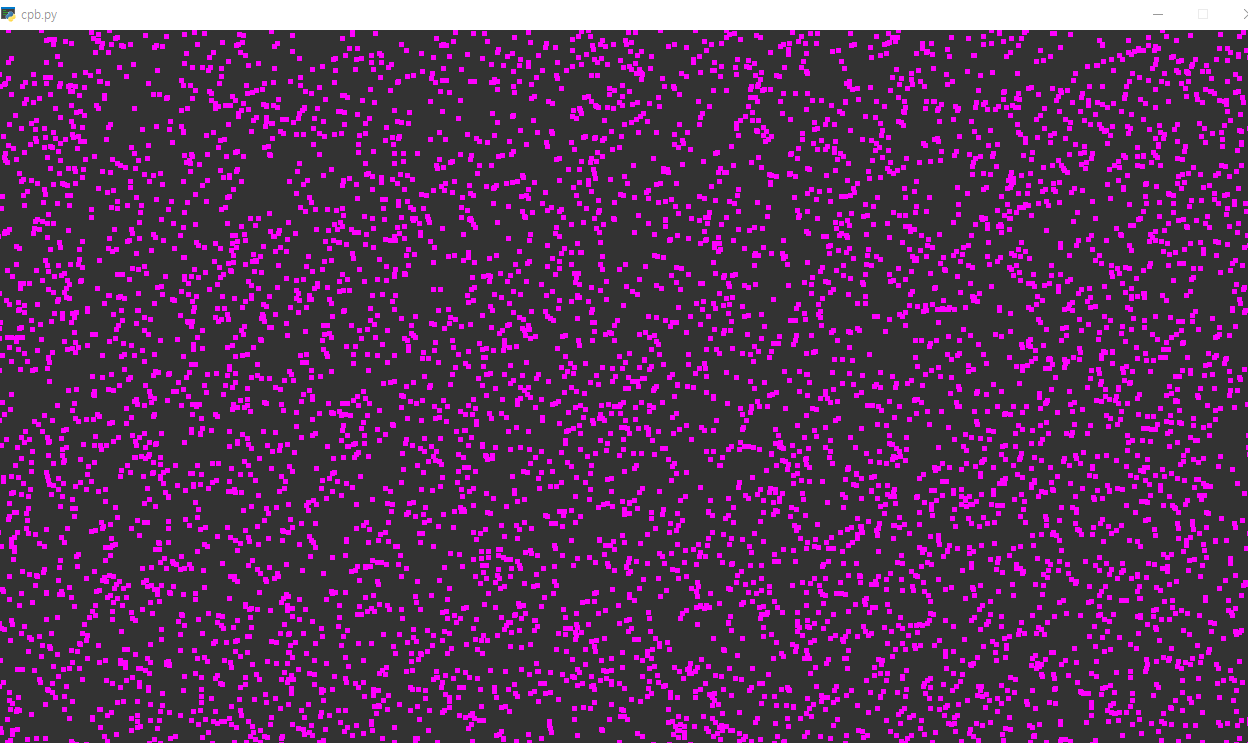
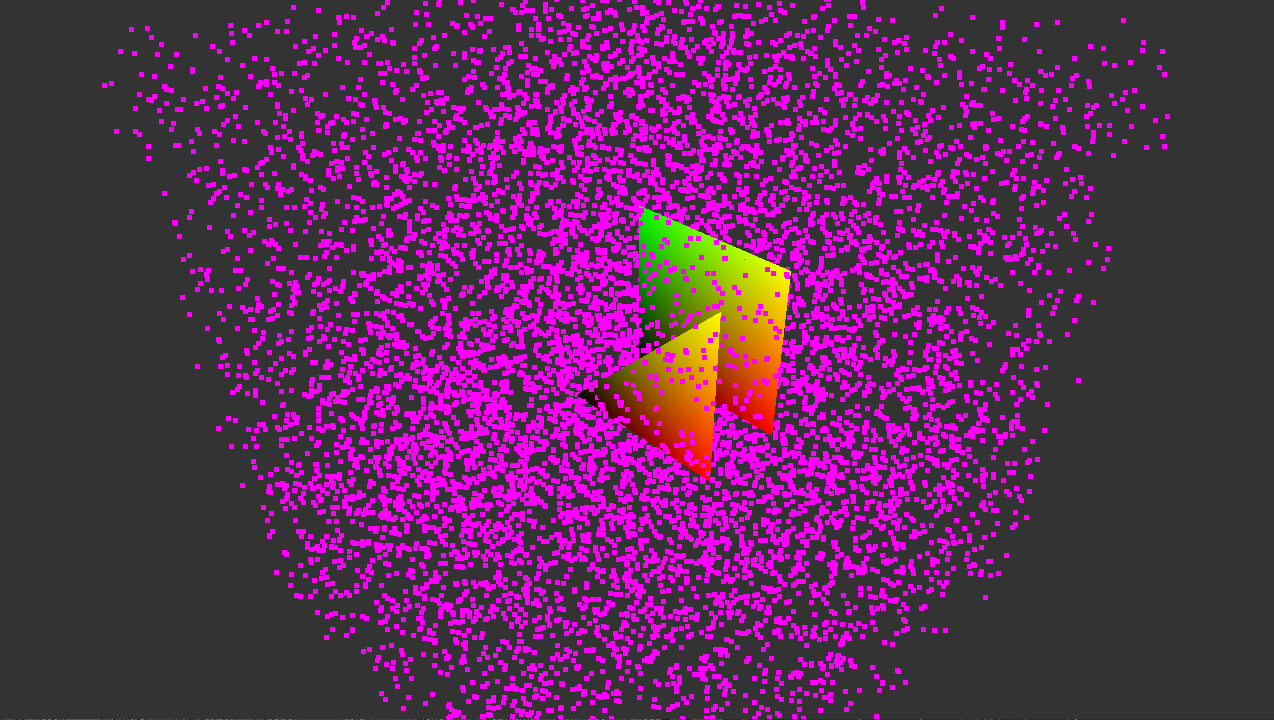
Indexed_VAO
and depth test.
draw rect.

diff --git a/cpb.py b/cpb.py
@@ -51,7 +51,6 @@ if platform.system() == "Linux":
         def glGetProgramResourceIndex(program,target,name):
             name = bytes(name,encoding='utf-8')
             return _gl.glGetProgramResourceIndex(program,target,name)
-        
         #not supported in ES.
         # glShaderStorageBlockBinding
         
@@ -285,8 +284,34 @@ class VAO:
         # print(self.count,'count',size,ssbo.size)
     def draw(self):
         glBindVertexArray(self.vao)
+        glDrawArrays(GL_TRIANGLES, 0, self.count)
+    def draw_point(self):
+        glBindVertexArray(self.vao)
         glDrawArrays(GL_POINTS, 0, self.count)
-        # glDrawArrays(GL_TRIANGLES, 0, 6)
+
+class VAOIndexed:
+    "is for draw object. requires shader used first."
+    def __init__(self, ssbo, ssbo_index, size=3,stride=0):
+        self.vao = glGenVertexArrays(1)
+        glBindVertexArray(self.vao)
+
+        glBindBuffer(GL_ARRAY_BUFFER, ssbo.ID)
+        glBindBuffer(GL_ELEMENT_ARRAY_BUFFER, ssbo_index.ID)
+        
+        glEnableVertexAttribArray(0)
+        glVertexAttribPointer(0, size, GL_FLOAT, GL_FALSE, stride, None)#index size type normalize stride offsetptr
+        # glEnableVertexAttribArray(1)
+        # glVertexAttribPointer(1, 2, GL_FLOAT, GL_FALSE, 5 * vertices.itemsize, ctypes.c_void_p(3 * vertices.itemsize))
+        #stride = 5 * vertices.itemsize
+        
+        self.count = ssbo_index.size
+        self.ma = ssbo_index
+    def draw(self):
+        glBindVertexArray(self.vao)
+        glDrawElements(GL_TRIANGLES, self.count, GL_UNSIGNED_INT,None)
+    def draw_point(self):
+        glBindVertexArray(self.vao)
+        glDrawElements(GL_POINTS, self.count, GL_UNSIGNED_INT,None)
 
 
 
@@ -354,6 +379,44 @@ void main(void){
 }
 """
 
+
+vert_tex = """
+#version 310 es
+precision highp float;
+
+uniform mat4 ProjectionView;
+
+layout(location = 0) in vec3 position;
+
+out vec2 uv_out;
+
+void main() {
+    gl_Position = ProjectionView * vec4(position, 1.0);
+    uv_out = position.xy;
+}
+"""
+frag_tex = """
+#version 310 es
+precision highp float;
+
+in vec2 uv_out;
+out vec4 color;
+
+uniform sampler2D tex;
+
+void main(void){
+    color = vec4(uv_out,0, 1.0);
+    //color = texture2D(tex, uv_out);
+}
+"""
+
+# layout(std140, binding = 0) uniform Camera {
+#     mat4 view;
+#     mat4 proj;
+# };
+# glBindBufferBase(GL_UNIFORM_BUFFER, 0, ubo_id)
+
+
 projection = matrix44.create_perspective_projection(45,16/9,0.01,100)#fov ratio near far
 view = matrix44.create_look_at([3,3,3], [0,0,0], [0,1,0]) # view target up
 projection_view = (projection.T@view.T).T #to pretty print(and gl-preffered), pyrr is col.major.
@@ -362,21 +425,34 @@ sha = DrawShader(vs=vert,fs=frag)
 sha.set_uniform4x4("ProjectionView", projection_view)
 # sha.set_in("position",3)
 
+sha2 = DrawShader(vs=vert_tex,fs=frag_tex)
+sha2.set_uniform4x4("ProjectionView", projection_view)
+
 vao = VAO(pos_ssbo)
 
+vao_rect = VAO(SSBO(np.array([0,0,0.5, 1,0,0.5, 1,1,0.5,],dtype=np.float32)))
+
+vao_idx_rect = VAOIndexed(
+    SSBO(np.array([0,0,0, 1,0,0, 1,1,0, 0,1,0],dtype=np.float32)),
+    SSBO(np.array([0,1,2, 0,2,3],dtype=np.uint32))
+)
 
 glPointSize(5)  #not working on rpi
 glClearColor(0.2,0.2,0.2,1)
-
+glEnable(GL_DEPTH_TEST)
 @window.event
 def on_draw():
     # window.clear()
-    glClear(GL_COLOR_BUFFER_BIT)
+    glClear(GL_COLOR_BUFFER_BIT|GL_DEPTH_BUFFER_BIT)
 
     sha_posspd.execute(pos_ssbo.size, Pos=pos_ssbo,Spd=spd_ssbo)
     
     sha.use()
-    vao.draw()
+    vao.draw_point()
+    
+    sha2.use()
+    vao_rect.draw()
+    vao_idx_rect.draw()
     # sha.draw(pos_ssbo.size//3, position=pos_ssbo)
     
     time.sleep(0.01)
